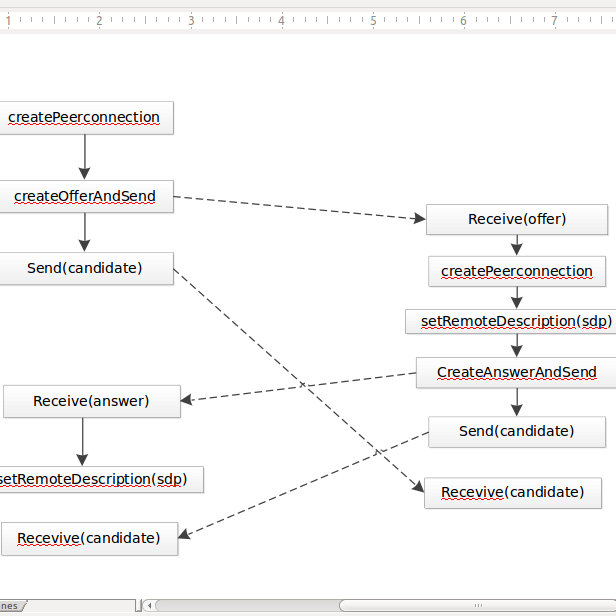
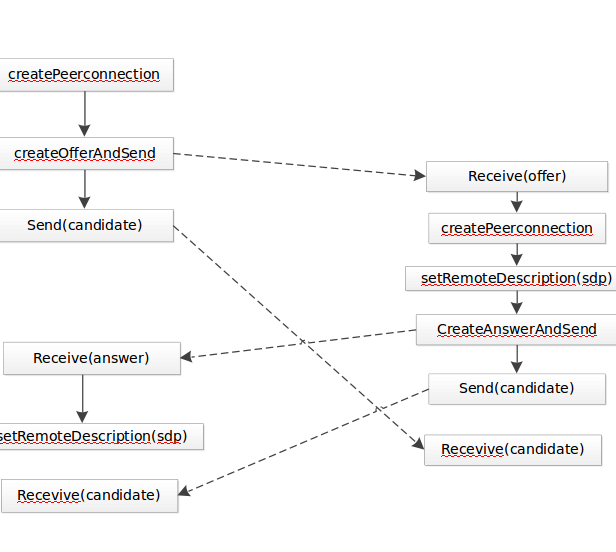
发布版本：1.84.2

diff --git a/android/src/main/java/com/cocoa/WebRTCModule/WebRTCModule.java b/android/src/main/java/com/cocoa/WebRTCModule/WebRTCModule.java
@@ -469,6 +469,10 @@ public class WebRTCModule extends ReactContextBaseJavaModule {
         return getUserMediaImpl.getTrack(trackId);
     }
 
+    MediaStreamTrack getLocalTrackByType(String type) {
+        return getUserMediaImpl.getTrackByType(type);
+    }
+
     private static MediaStreamTrack getLocalTrack(
             MediaStream localStream,
             String trackId) {
@@ -1435,8 +1439,8 @@ public class WebRTCModule extends ReactContextBaseJavaModule {
                 try {
                     transceiver = pco.getTransceiver(transceiverId);
                     //显示进度框，延迟等待（1 秒）
-                    if(isShow == true)
-                        this.showProgressDialog(kind, direction);
+                    if(isShow == true){  this.showProgressDialog(kind, direction); }
+
                     RtpTransceiver.RtpTransceiverDirection tempDirection = this.parseDirection(direction);
                     transceiver.setDirection(tempDirection);
 
@@ -1444,37 +1448,20 @@ public class WebRTCModule extends ReactContextBaseJavaModule {
                     res.putString("id", transceiverId);
                     res.putMap("state", this.serializeState(id));
                     callback.invoke(true, res);
-                    //暂定此代码
-                    if(pco.isUnifiedPlan == true){
-                        PeerConnectionObserver pco1 = mPeerConnectionObservers.get(id + 1);
-                        if(pco1 != null){
-                            List<RtpTransceiver> list = pco1.getPeerConnection().getTransceivers();
-                            for (int i = 0;i< list.size(); i++){
-                                String str1 = list.get(i).getSender().track().kind();
 
-                                if(str1.equalsIgnoreCase(kind) == true){
-                                    list.get(i).setDirection(tempDirection);
-                                    break;
-                                }
-                            }
-                        }
-                    }
-                    if(isShow == true)
-                        this.delayedClose();
+                    if(isShow == true){ this.delayedClose(); }
                 }catch (Error e){
                     if(transceiver == null){
                         callback.invoke(false, "transceiver not found");
                     }else {
                         callback.invoke(false, this.serializeDirection(transceiver.getDirection()));
                     }
-                    if(isShow == true)
-                        this.delayedClose();
+                    if(isShow == true){ this.delayedClose(); }
                 }
             } else {
                 Log.d(TAG, "peerConnectionTransceiverSetDirection() peerConnection is null");
                 callback.invoke(false, "peerConnection is null");
-                if(isShow == true)
-                    this.delayedClose();
+                if(isShow == true){ this.delayedClose(); }
             }
         }
     }

diff --git a/android/src/main/java/com/cocoa/WebRTCModule/PeerConnectionObserver.java b/android/src/main/java/com/cocoa/WebRTCModule/PeerConnectionObserver.java
@@ -564,14 +564,23 @@ class PeerConnectionObserver implements PeerConnection.Observer {
                     videoTrackAdapters.addAdapter(streamReactTag, (VideoTrack) track);
 
                     if(transceiver.getSender().track() == null){
-                        transceiver.getSender().setTrack(Test.getVideoTrack(), true);
-                        transceiver.setDirection(RtpTransceiver.RtpTransceiverDirection.SEND_RECV);
-                        this.onRenegotiationNeeded();
+                        MediaStreamTrack videoTrack = webRTCModule.getLocalTrackByType("video");
+
+                        if(videoTrack != null){
+                            transceiver.getSender().setTrack(videoTrack, false);
+                            transceiver.setDirection(RtpTransceiver.RtpTransceiverDirection.SEND_RECV);
+                            int i = id;
+                            //this.onRenegotiationNeeded();
+                        }
                     }
                 }else {
                     if(transceiver.getSender().track() == null) {
-                        transceiver.getSender().setTrack(Test.getAudioTrack(), true);
-                        transceiver.setDirection(RtpTransceiver.RtpTransceiverDirection.SEND_RECV);
+                        MediaStreamTrack audioTrack = webRTCModule.getLocalTrackByType("audio");
+
+                        if(audioTrack != null){
+                            transceiver.getSender().setTrack(audioTrack, false);
+                            transceiver.setDirection(RtpTransceiver.RtpTransceiverDirection.SEND_RECV);
+                        }
                     }
                 }
 

diff --git a/android/src/main/java/com/cocoa/WebRTCModule/GetUserMediaImpl.java b/android/src/main/java/com/cocoa/WebRTCModule/GetUserMediaImpl.java
@@ -152,6 +152,17 @@ class GetUserMediaImpl {
         return private_ == null ? null : private_.track;
     }
 
+    MediaStreamTrack getTrackByType(String type) {
+        for (String key : tracks.keySet()){
+            TrackPrivate private_ = tracks.get(key);
+
+            if(private_.track.kind().equalsIgnoreCase(type)){
+                return private_.track;
+            }
+        }
+        return null;
+    }
+
     /**
      * Implements {@code getUserMedia}. Note that at this point constraints have
      * been normalized and permissions have been granted. The constraints only
@@ -199,11 +210,8 @@ class GetUserMediaImpl {
 
             if (track instanceof AudioTrack) {
                 mediaStream.addTrack((AudioTrack) track);
-
-                Test.addAudioTrack(track);
             } else {
                 mediaStream.addTrack((VideoTrack) track);
-                Test.addVideoTrack(track);
             }
 
             WritableMap track_ = Arguments.createMap();

diff --git a/README.md b/README.md
@@ -10,6 +10,11 @@
 - 仅 Android 版支持: Transceiver API（unified-plan 模式：W3C 建议使用）.
 
 **NOTE** 对于 Expo 用户：除非您退出，否则此插件将不起作用。
+![wanWYd](https://s1.ax1x.com/2020/09/12/wanWYd.png)
+![wanRFH](https://s1.ax1x.com/2020/09/12/wanRFH.jpg)
+![wauoC9](https://s1.ax1x.com/2020/09/12/wauoC9.jpg)
+![wau54J](https://s1.ax1x.com/2020/09/12/wau54J.jpg)
+
 ## 感谢开源项目
 - 感谢 [react-native-webrtc](https://github.com/react-native-webrtc/react-native-webrtc) 提供基础架构 [M84](https://github.com/jitsi/webrtc/commit/dc40d5cc81e8fe9aa1cd78a38ee8bb9e91ec49a0) 版本
 - 感谢 openland 作者 [react-native-webrtc：openland](https://github.com/openland/react-native-webrtc) 提供收发器 API 支持
@@ -46,7 +51,7 @@
 
 ## 使用
 现在，请先看下图，WebRTC 认证、协议握手流程图（其中需要 信令服务器，媒体服务器[ STUN、TURN ]）
-![image](http://z1.027cgb.com/632122/communicationTopology.png)
+![certification](https://s1.ax1x.com/2020/09/12/wakGU1.png)
 
 这儿有个 [信令服务器](https://github.com/juncocoa/react-native-webrtc-server) 可用于 开发、测试，使用 socket.io 加房间方式。（仅开发、测试，正式运营，需要自己写信令服务器 和 压力测试）
 
@@ -114,8 +119,15 @@ pc.onicecandidate = function (event) {
   // send event.candidate to peer
 };
 
-// 也支持 setRemoteDescription, createAnswer, addIceCandidate, addTransceiver, onnegotiationneeded, oniceconnectionstatechange, onsignalingstatechange, onaddstream , ontrack
+// 支持的事件
+// onnegotiationneeded, oniceconnectionstatechange, onsignalingstatechange, onicecandidate
+// onaddstream, onremovestream, ontrack, ondatachannel
 
+// 支持的方法
+//setRemoteDescription, createAnswer,addIceCandidate, addTransceiver, setDirection, getRtpSenders
+//addStream, removeStream, addTrack, removeTrack, replaceTrack, stop
+
+//并且支持 Data Channel
 ```
 ### 收发器介绍（ Transceiver API ）
 收发器方向，一共有四种：sendrecv、sendonly、recvonly、inactive( ``提示：会导致 C++ 销毁收发器，销毁后不能使用 setDirection(方向)`` )
@@ -129,7 +141,7 @@ pc.addTransceiver('audio' | 'video' | MediaStreamTrack, {direction: 'sendrecv'})
 //从而控制：麦克风静音，关闭远程摄像头 等
 this.state.videoTransceiver.setDirection("recvonly")
 ```
-![image](http://z1.027cgb.com/632122/direction.jpg)
+![direction](https://s1.ax1x.com/2020/09/12/wak8ER.png)
 ### RTCView
 
 但是，渲染视频流应以 React 方式使用。
